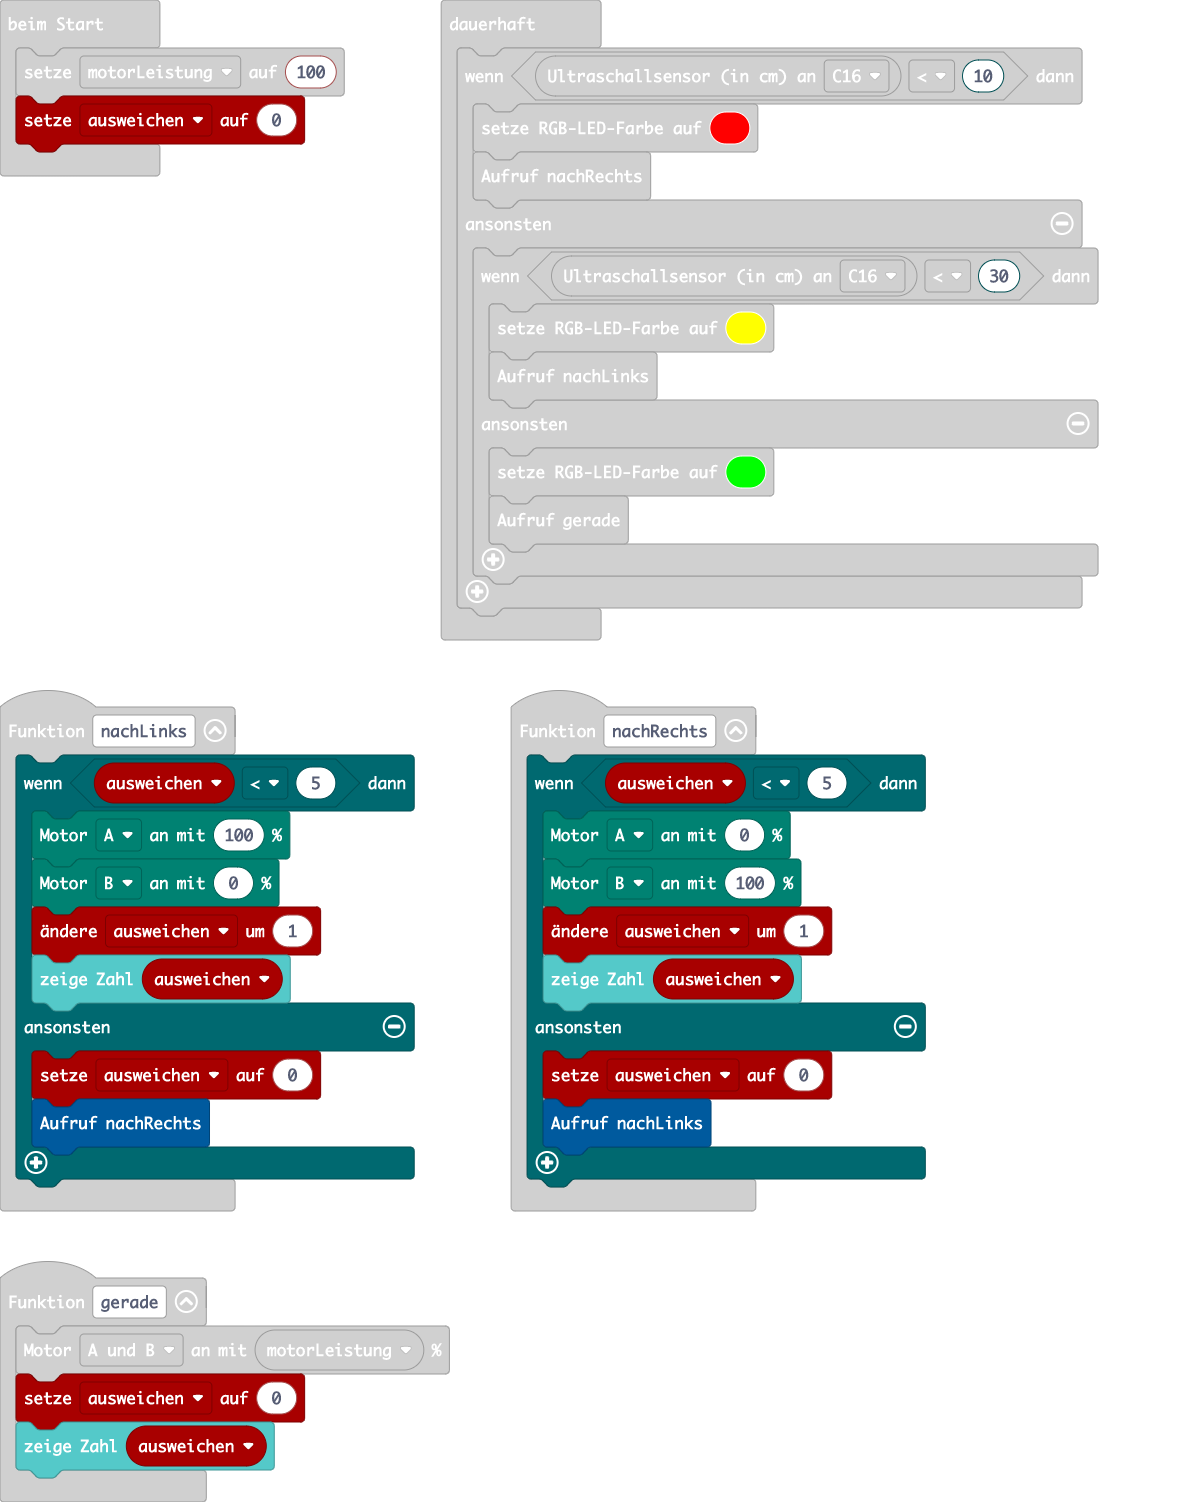
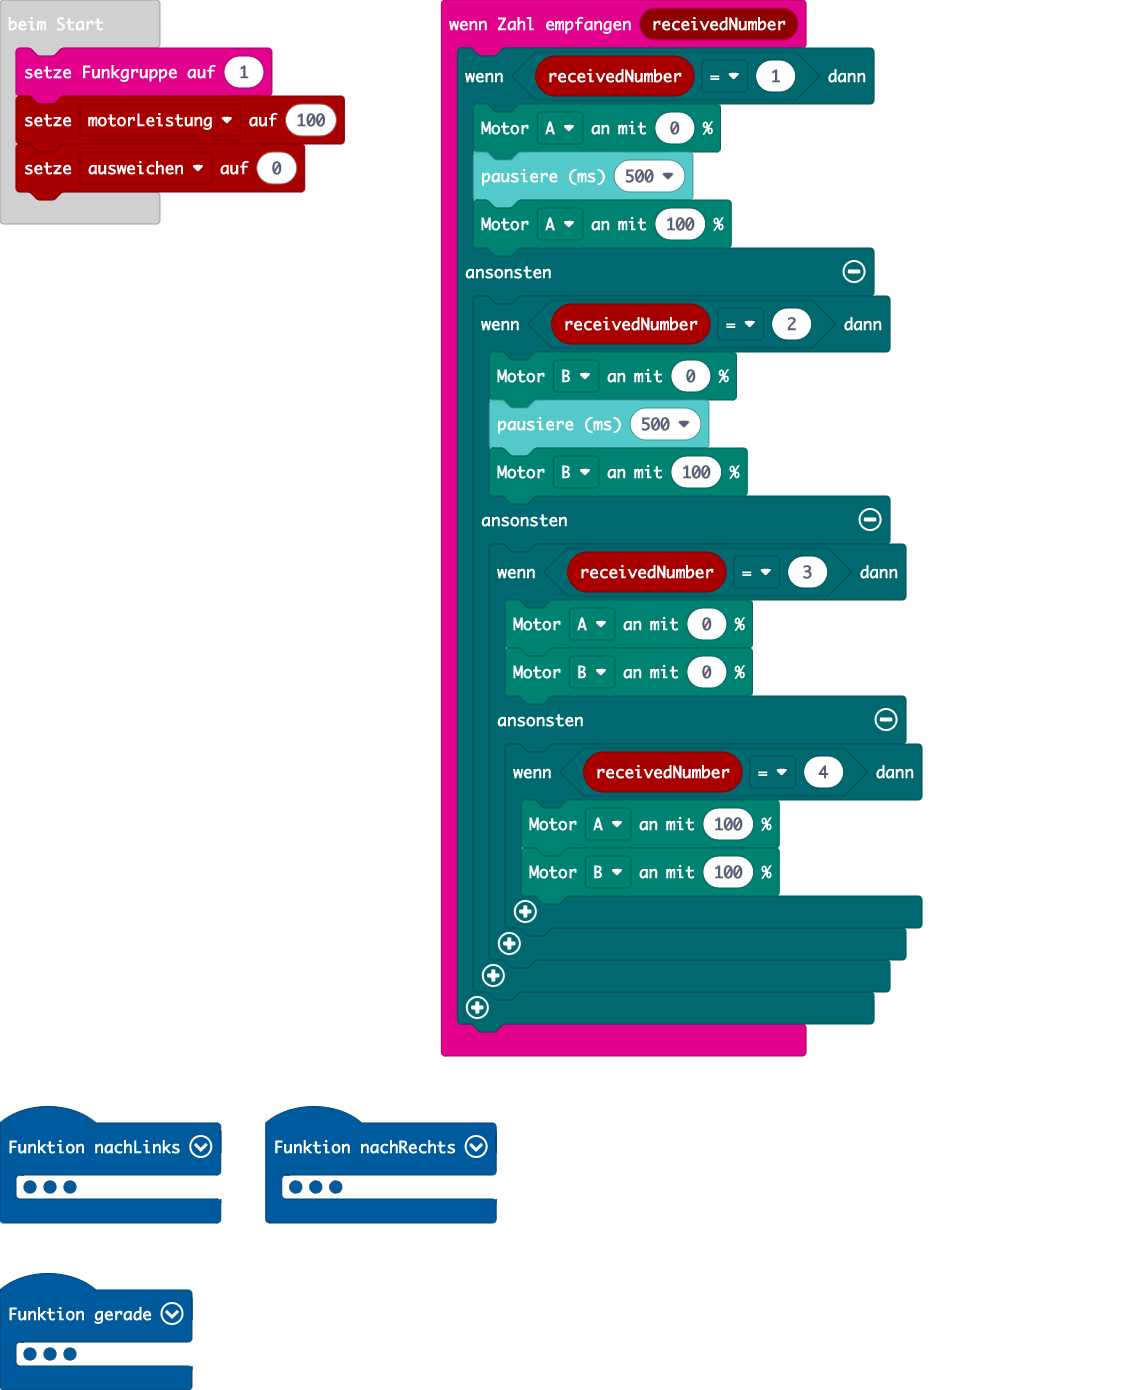
remote control

diff --git a/main.ts b/main.ts
@@ -1,14 +1,35 @@
+radio.onReceivedNumber(function (receivedNumber) {
+    if (receivedNumber == 1) {
+        motors.dualMotorPower(Motor.A, 0)
+        basic.pause(500)
+        motors.dualMotorPower(Motor.A, 100)
+    } else {
+        if (receivedNumber == 2) {
+            motors.dualMotorPower(Motor.B, 0)
+            basic.pause(500)
+            motors.dualMotorPower(Motor.B, 100)
+        } else {
+            if (receivedNumber == 3) {
+                motors.dualMotorPower(Motor.A, 0)
+                motors.dualMotorPower(Motor.B, 0)
+            } else {
+                if (receivedNumber == 4) {
+                    motors.dualMotorPower(Motor.A, 100)
+                    motors.dualMotorPower(Motor.B, 100)
+                }
+            }
+        }
+    }
+})
 function gerade () {
     motors.dualMotorPower(Motor.AB, motorLeistung)
     ausweichen = 0
-    basic.showNumber(ausweichen)
 }
 function nachLinks () {
     if (ausweichen < 5) {
         motors.dualMotorPower(Motor.A, 100)
         motors.dualMotorPower(Motor.B, 0)
         ausweichen += 1
-        basic.showNumber(ausweichen)
     } else {
         ausweichen = 0
         nachRechts()
@@ -19,7 +40,6 @@ function nachRechts () {
         motors.dualMotorPower(Motor.A, 0)
         motors.dualMotorPower(Motor.B, 100)
         ausweichen += 1
-        basic.showNumber(ausweichen)
     } else {
         ausweichen = 0
         nachLinks()
@@ -27,6 +47,7 @@ function nachRechts () {
 }
 let ausweichen = 0
 let motorLeistung = 0
+radio.setGroup(1)
 motorLeistung = 100
 ausweichen = 0
 basic.forever(function () {
